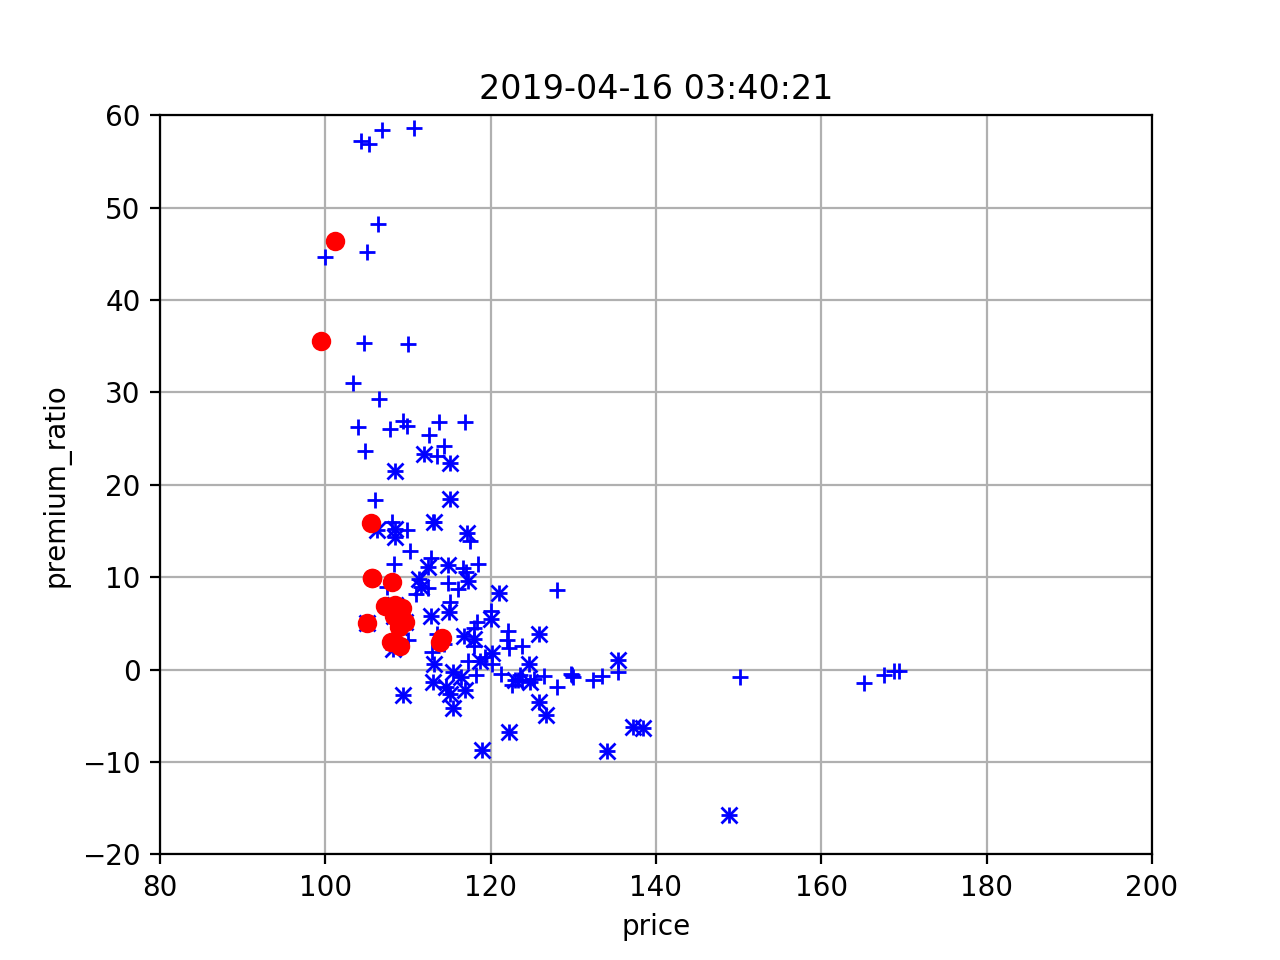
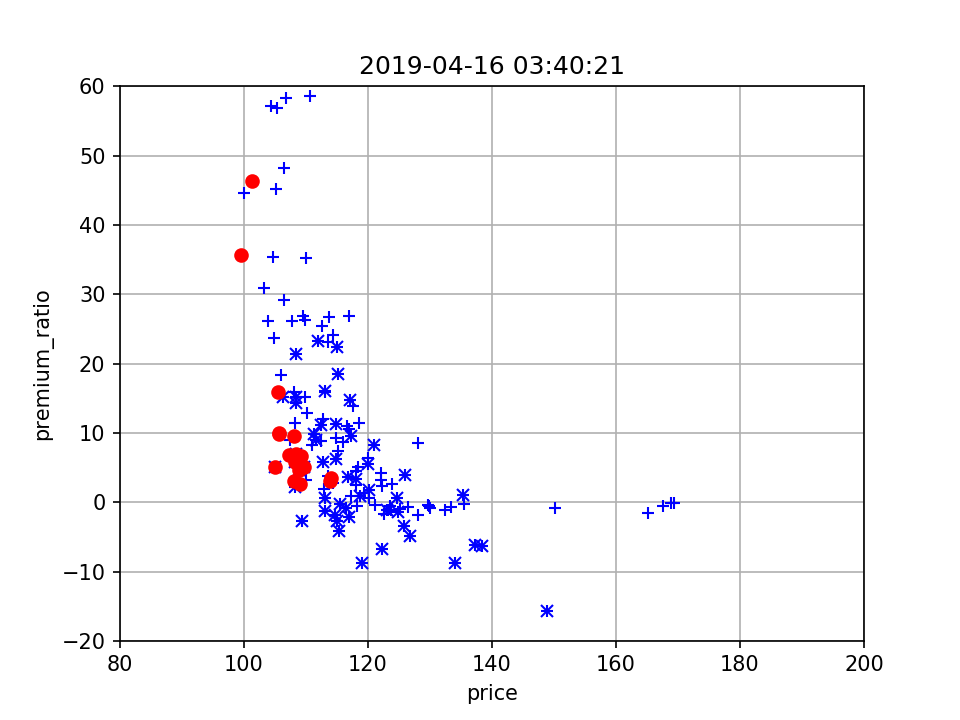
change the pic quality as dpi 150

diff --git a/Print.py b/Print.py
@@ -1,8 +1,8 @@
 import pandas as pd
 import matplotlib.pyplot as plt
 
-FULL_DATA_FILE_PATH = './jsl.rlst.csv'
-PARTIAL_FILE_PATH = './jsl.existing.18.csv'    # only read bond_id from the file
+FULL_DATA_FILE_PATH = './output/jsl.rlst.csv'
+PARTIAL_FILE_PATH = './output/jsl.existing.18.csv'    # only read bond_id from the file
 
 rdf = pd.read_csv(FULL_DATA_FILE_PATH, dtype={'bond_id': object}, encoding='utf-8', index_col=0)
 rdf.drop(rdf.tail(1).index, inplace=True)

diff --git a/SortBySumOfPrinceAndPremium.py b/SortBySumOfPrinceAndPremium.py
@@ -108,7 +108,6 @@ plt.title(datetime.now().strftime("%Y-%m-%d %I:%M:%S"))
 plt.xlabel('price')
 plt.ylabel('premium_ratio')
 plt.grid(True)
-plt.savefig('pic/'+ TODAY + '.png', dpi=300)
-
+plt.savefig('pic/'+ TODAY + '.png', dpi=150)
 
 
